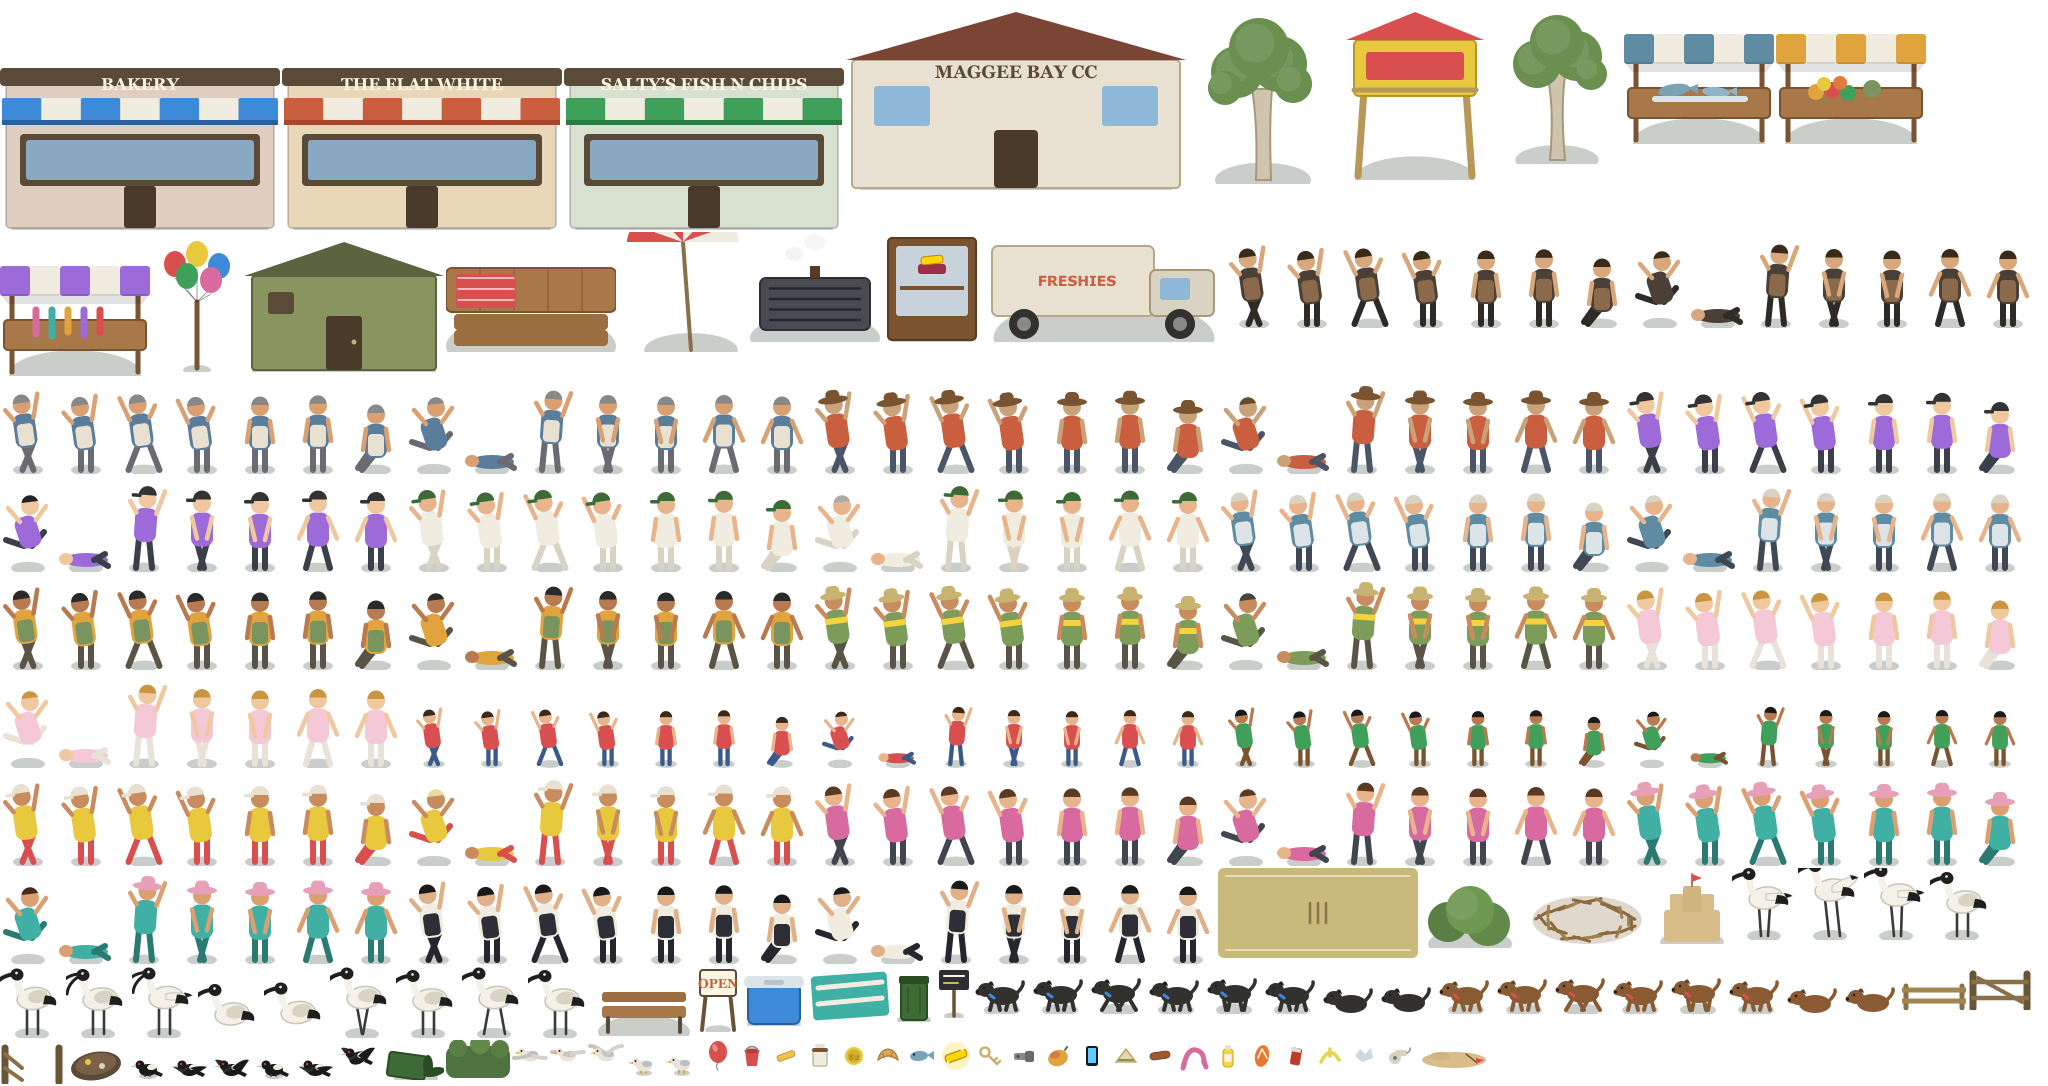
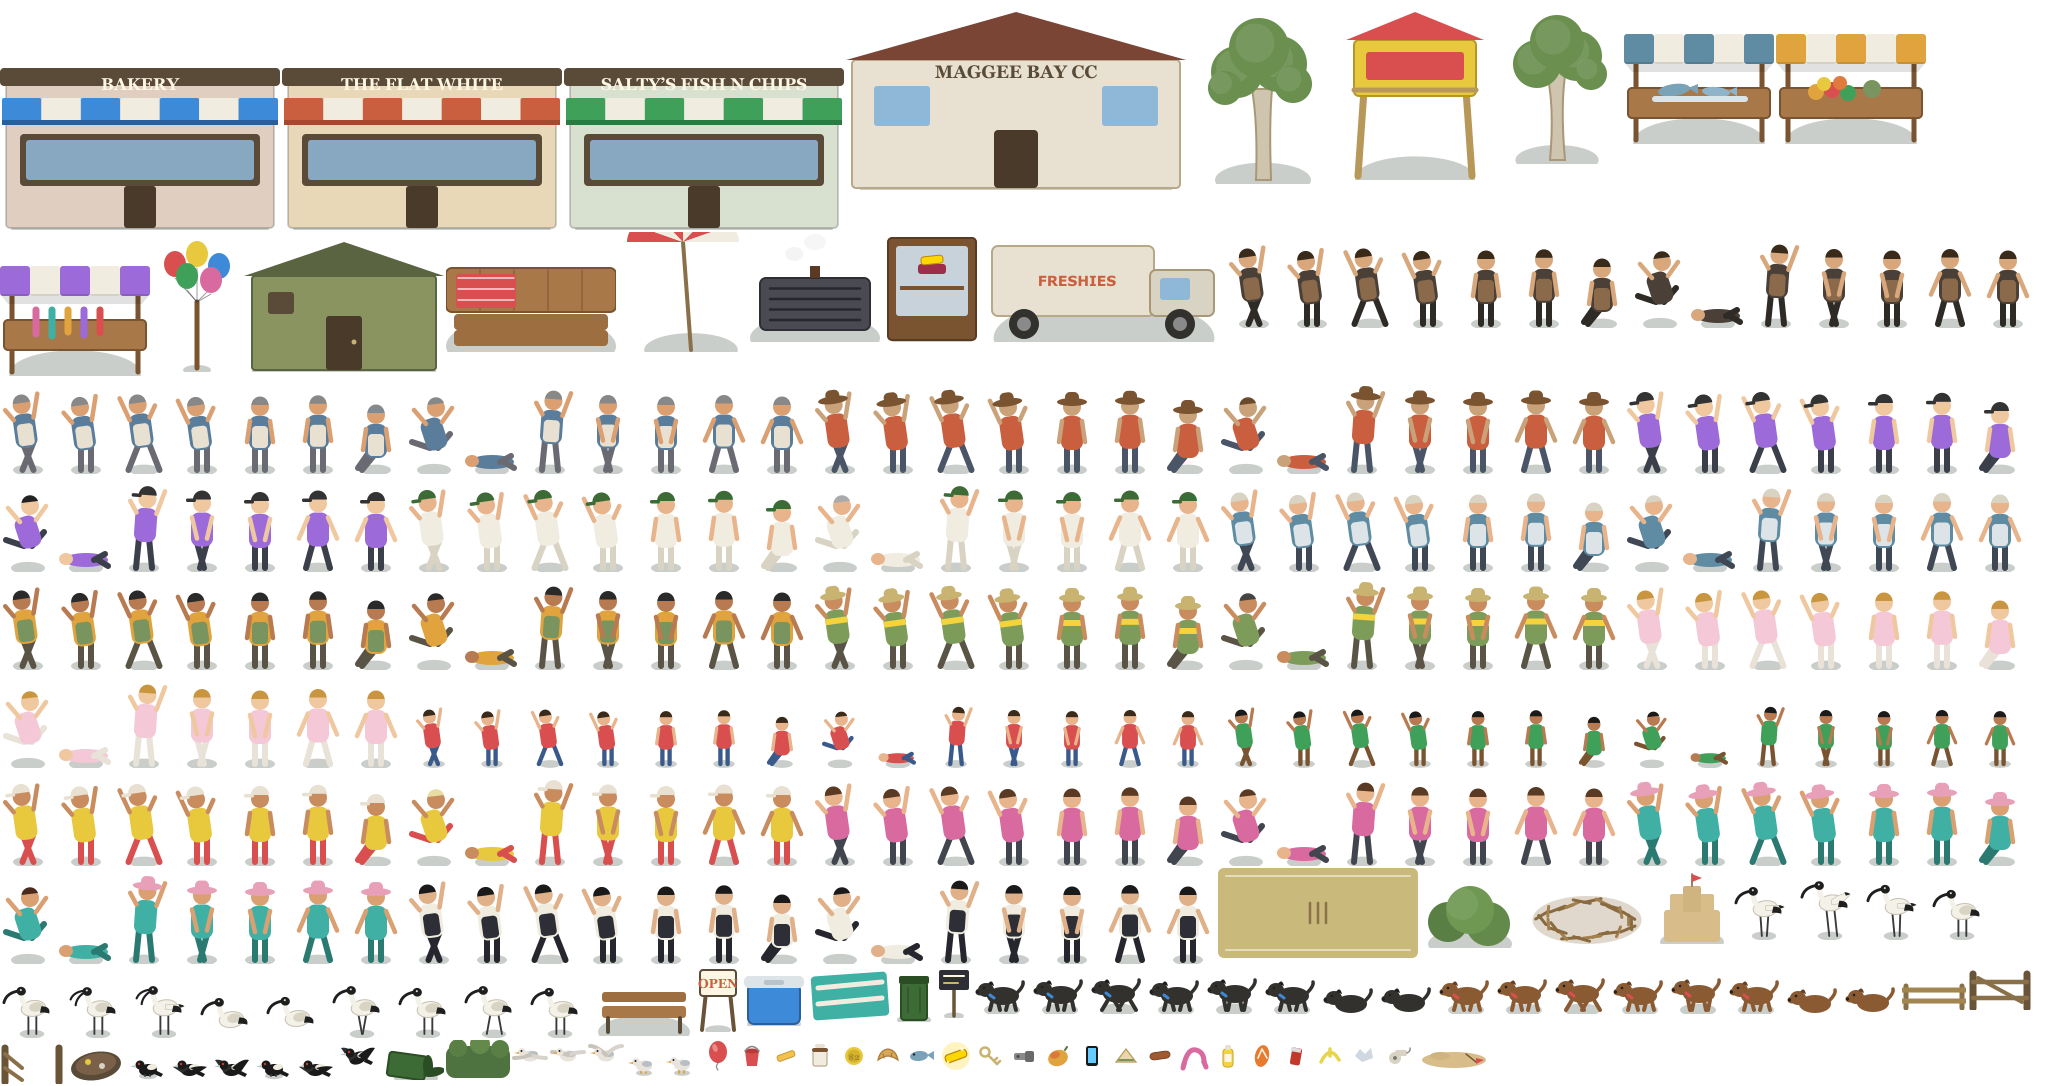
fix: scale the ibis down to ~0.72 so it reads as a proper ibis next to humans (was ~0.9x their height); update beak offset to match

Changed region(s): [[0.0, 0.8812, 0.2812, 0.9724], [0.8438, 0.7901, 0.9688, 0.8812]]

diff --git a/tools/atlas/sprites/ibis.ts b/tools/atlas/sprites/ibis.ts
@@ -7,6 +7,9 @@ const W = 64;
 const H = 72;
 const CX = 32;
 const FOOT = 68; // anchor line
+// A real ibis stands well below a person; scale the whole bird down around
+// its feet so it reads as ~0.6x an adult human's height (it was ~0.9x).
+const SCALE = 0.72;
 
 interface Pose {
   legL: number;   // forward/back offset of left leg foot, px
@@ -79,7 +82,8 @@ function ibisBody(p: Pose): string {
 }
 
 function frame(name: string, p: Pose): SpriteFrame {
-  return { name, w: W, h: H, svg: doc(W, H, ibisBody(p)) };
+  const scaled = `<g transform="translate(${CX} ${FOOT}) scale(${SCALE}) translate(${-CX} ${-FOOT})">${ibisBody(p)}</g>`;
+  return { name, w: W, h: H, svg: doc(W, H, scaled) };
 }
 
 export function ibisFrames(): SpriteFrame[] {
@@ -111,6 +115,7 @@ export function ibisFrames(): SpriteFrame[] {
 }
 
 // Beak-tip offset from sprite anchor (left-facing); the game mirrors for
-// right-facing. Items carried in the beak attach here.
-export const IBIS_BEAK_OFFSET = { x: -24, y: -44 };
+// right-facing. Items carried in the beak attach here. Scaled with the bird
+// (keep in sync with src/world/spriteMeta.ts, which the game imports).
+export const IBIS_BEAK_OFFSET = { x: -24 * SCALE, y: -44 * SCALE };
 export { W as IBIS_W, H as IBIS_H };

diff --git a/src/world/spriteMeta.ts b/src/world/spriteMeta.ts
@@ -2,8 +2,9 @@
 // (The baker imports from here so art and gameplay can't drift apart.)
 
 // Beak tip offset from the ibis sprite anchor (bottom-centre), left-facing.
-// Mirror x for right-facing. Carried items attach here.
-export const IBIS_BEAK_OFFSET = { x: -24, y: -44 } as const;
+// Mirror x for right-facing. Carried items attach here. These track the ibis
+// art scale (0.72) in tools/atlas/sprites/ibis.ts: base (-24,-44) x 0.72.
+export const IBIS_BEAK_OFFSET = { x: -17, y: -32 } as const;
 
 // Hand offset for humans carrying items home.
 export const HUMAN_HAND_OFFSET = { x: -14, y: -52 } as const;

diff --git a/src/main.ts b/src/main.ts
@@ -6,7 +6,7 @@ import { TitleScene } from './scenes/Title';
 import { PauseScene } from './scenes/Pause';
 import { UIOverlayScene } from './scenes/UIOverlay';
 
-export const GAME_VERSION = '2.1.0';
+export const GAME_VERSION = '2.1.1';
 export const DESIGN_WIDTH = 1280;
 export const DESIGN_HEIGHT = 720;
 